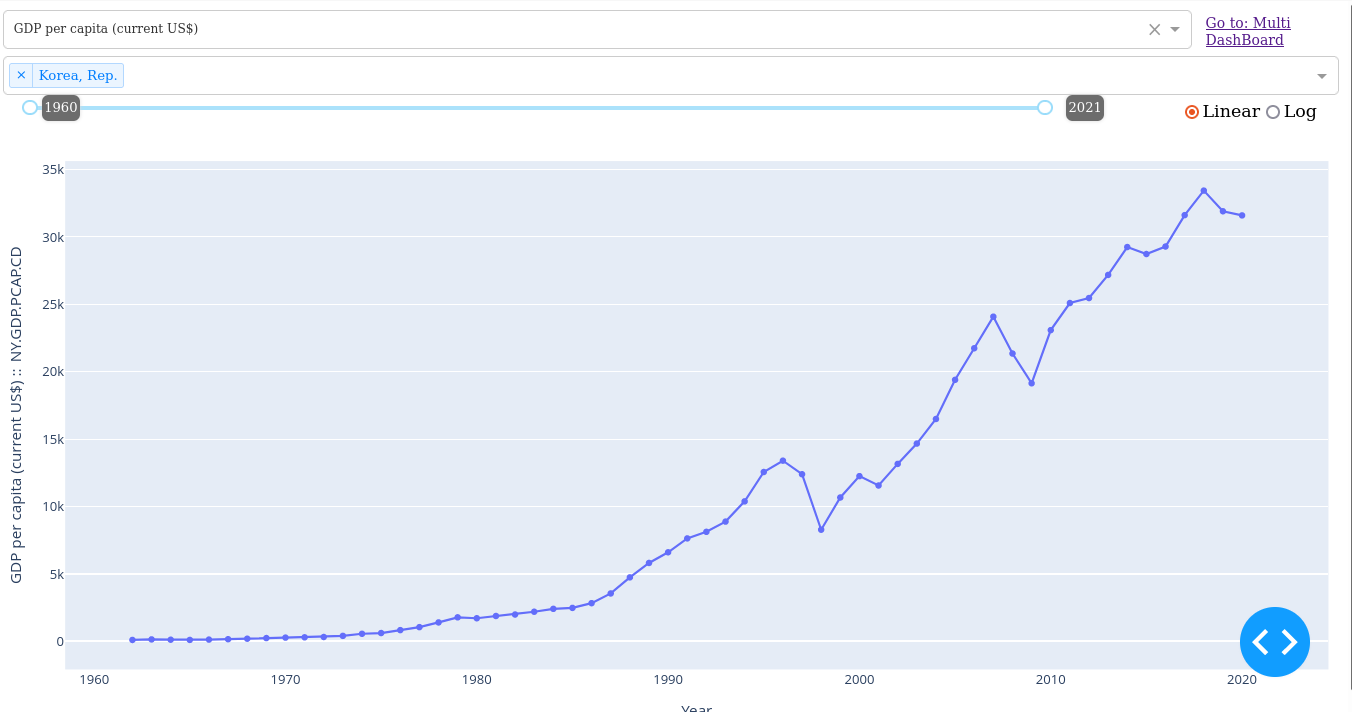
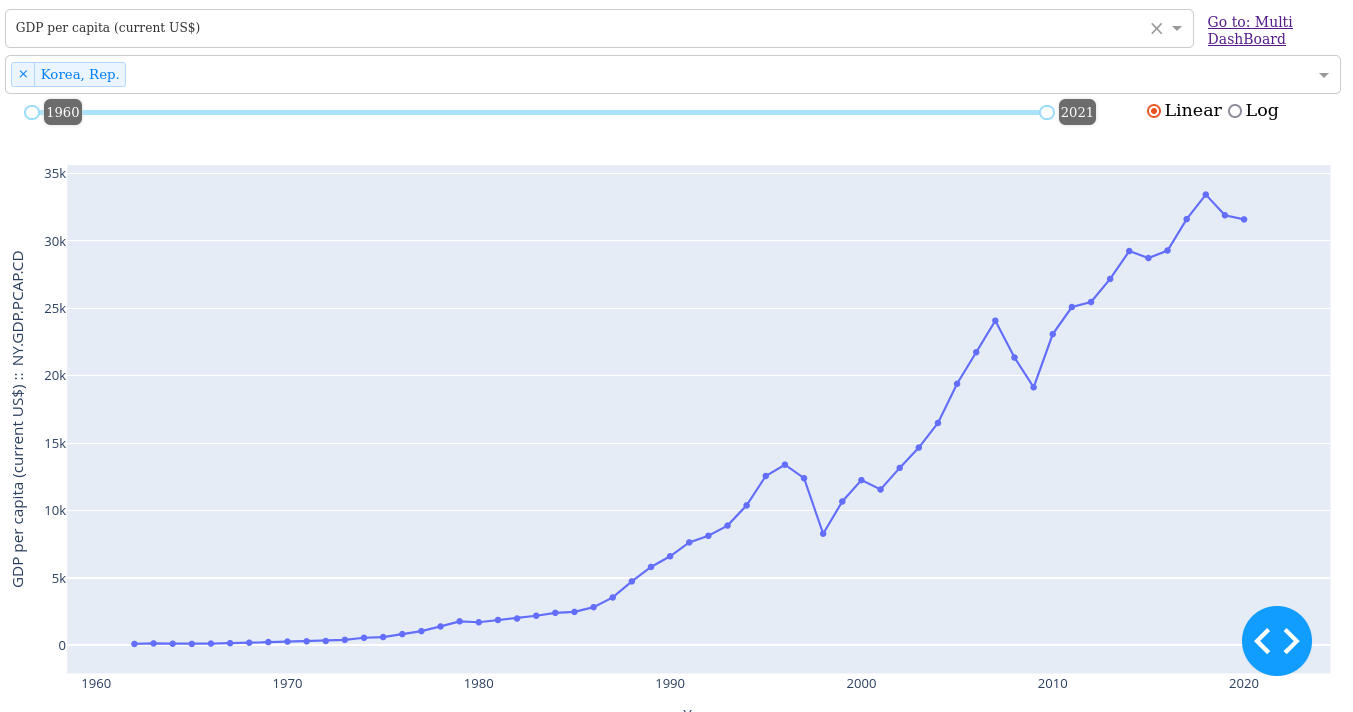
update Apps Version 2 + screenshots

diff --git a/appPages/multiApp.py b/appPages/multiApp.py
@@ -41,47 +41,66 @@ def extract_data(year, d_economies, d_indicator):
 
 layout = html.Div([
     html.Div([
-        dcc.Link('Go to: Simple DashBoard',
-                 href='/simpleApp'),
-    ],            style={
-        'width': '12%',
-        'float': 'right',
-        'padding': '0px 0px 0px 0px',
-        # "display": "inline-block",
-        "font-size": "80%"
-    }
-    ),
-    html.Div([
         dcc.Dropdown(
-            id="x-axis-indicator-7",
-            options=[
-                {"label": key,
-                 "value": value} for key, value in ind_dic.items()
-            ],
-            # value="AG.LND.AGRI.ZS",
-            multi=False)
-    ],
-        style={
-        'width': '87%',
-        'float': 'left',
-        "display": "inline-block",
-        "font-size": "70%"}
-    ),
-    html.Div([
-        dcc.Dropdown(
-            id="d-indicators-7",
+            id="y-indicator-7",
             options=[
                 {"label": key,
                  "value": value} for key, value in ind_dic.items()],
             value="NY.GDP.PCAP.CD",
-            multi=False)
-    ],
-        style={
-        "width": "100%",
-        "display": "inline-block",
-        "padding": "2px 0px 0px 0px",
-        "font-size": "70%"}
-    ),
+            multi=False),
+        # ],
+        #     style={
+        #     "width": "85%",
+        #     "display": "inline-block",
+        #     "padding": "2px 0px 0px 0px",
+        #     "font-size": "70%"}
+        # ),
+        dcc.RadioItems(
+            id="y-axis-type-7",
+            options=["Linear", "Log"],
+            value="Linear",
+            # labelStyle={
+               # "display": "inline-block",
+               # "marginTop": "0px",
+            # },
+        ),
+    ], style={'width': '50%',
+              # "padding": "0px 0px 0px 0px",
+              'float': 'right',
+              'display': 'inline-block',
+              'font-size': "70%"
+              }),
+    html.Div([
+        dcc.Dropdown(
+            id="x-indicator-7",
+            options=[
+                {"label": key,
+                 "value": value} for key, value in ind_dic.items()
+            ],
+            value="AG.LND.AGRI.ZS",
+            multi=False),
+        # ],
+        # style={
+        # 'width': '75%',
+        # 'float': 'left',
+        # "display": "inline-block",
+        # "font-size": "70%"}
+        # ),
+        dcc.RadioItems(
+            id="x-axis-type-7",
+            options=["Linear", "Log"],
+            value="Linear",
+            labelStyle={
+                "display": "inline-block",
+                "marginTop": "0px",
+            },
+        ),
+    ], style={'width': '49%',
+              # 'padding': '0px 0px 0px 0px',
+              'float': 'left',
+              'display': 'inline-block',
+              'font-size': "70%"
+              }),
     html.Div([
         dcc.Dropdown(
             id="d-economies-7",
@@ -93,17 +112,28 @@ layout = html.Div([
             multi=True)
     ],
         style={
-        "width": "100%",
+        "width": "90%",
         "display": "inline-block",
-        # "padding": "0px 0px 0px 0px",
+        "padding": "5px 0px 0px 0px",
         "font-size": "85%"}
+    ),
+    html.Div([
+        dcc.Link('Go to: Simple DashBoard',
+                 href='/simpleApp'),
+    ],            style={
+        'width': '8%',
+        'float': 'right',
+        "padding": "5px 0px 0px 0px",
+        "display": "inline-block",
+        "font-size": "70%"
+    }
     ),
     html.Br(),
     html.Div([
         dcc.RadioItems(
-            value="Line",
+            value="Scatter",
             id="plot-choice-7",
-            options=['Line', 'Scatter'],
+            options=['Scatter', 'Line'],
             labelStyle={
                 "display": "inline-block",
                 "marginTop": "0px",
@@ -150,25 +180,28 @@ layout = html.Div([
     Output("data-graph-7", "figure"),
     Input("year-slider-7", "value"),
     Input("d-economies-7", "value"),
-    Input("d-indicators-7", "value"),
-    Input("x-axis-indicator-7", "value"),
+    Input("y-indicator-7", "value"),
+    Input("x-indicator-7", "value"),
     Input("plot-choice-7", "value"),
+    Input('y-axis-type-7', 'value'),
+    Input('x-axis-type-7', 'value'),
 )
-def update_data(year, d_economies, d_indicator, x_ind, plot_choice):
-    if not x_ind and d_indicator:
+def update_data(year, d_economies, y_ind, x_ind, plot_choice,
+                y_axis_type, x_axis_type):
+    if not x_ind and y_ind:
         x_axis = "Year"
         x_axis_title = "Year"
         y_axis = d_economies
-        y_axis_title = return_key(ind_dic, d_indicator)
-        data = extract_data(year, d_economies, d_indicator)
-    elif d_indicator and x_ind:
+        y_axis_title = return_key(ind_dic, y_ind)
+        data = extract_data(year, d_economies, y_ind)
+    elif y_ind and x_ind:
         x_axis = x_ind
         x_axis_title = return_key(ind_dic, x_ind)
-        y_axis = d_indicator
-        y_axis_title = return_key(ind_dic, d_indicator)
-        indicators = [d_indicator, x_ind]
+        y_axis = y_ind
+        y_axis_title = return_key(ind_dic, y_ind)
+        indicators = [y_ind, x_ind]
         data = extract_data(year, d_economies, indicators)
-    elif x_ind and not d_indicator:
+    elif x_ind and not y_ind:
         x_axis = "Year"
         y_axis = d_economies
         x_axis_title = "Year"
@@ -182,16 +215,15 @@ def update_data(year, d_economies, d_indicator, x_ind, plot_choice):
         # log_y=True,
     )
     fig.update_layout(transition_duration=500)
-    if plot_choice == 'Line':
-        fig.update_traces(mode="lines+markers")
-    else:
-        fig.update_traces(mode="markers")
+    fig.update_traces(mode="markers" if plot_choice ==
+                      "Scatter" else "lines+markers")
     fig.update_xaxes(
         title=("Year" if x_axis == "Year" else f'{x_axis_title} :: {x_ind}'),
         showgrid=False,
-        type="linear"
-    )
-    fig.update_yaxes(title=f"{y_axis_title} :: {d_indicator}", type="linear")
+        type="linear" if x_axis_type == "Linear" else 'log')
+    fig.update_yaxes(
+        title=f"{y_axis_title} :: {y_ind}",
+        type="linear" if y_axis_type == "Linear" else 'log')
     fig.update_layout(height=500, margin={
         "l": 20,
         "r": 10,

diff --git a/appPages/simpleApp.py b/appPages/simpleApp.py
@@ -89,10 +89,10 @@ layout = html.Div([
             value="Linear",
             labelStyle={
                "display": "inline-block",
-               "marginTop": "0px",
+               # "marginTop": "0px",
             },
         ),
-    ], style={'width': '12%', 'float': 'right', 'display': 'inline-block'}),
+    ], style={'width': '15%', 'float': 'right', 'display': 'inline-block'}),
     html.Div([
         dcc.RangeSlider(
             id="year-slider-2",
@@ -108,7 +108,7 @@ layout = html.Div([
     ],  style={
         'width': '80%',
         'display': 'inline-block',
-        # 'padding': '5px 0px 0px 0px',
+        'padding': '5px 0px 0px 0px',
         'font-size': '50%'
     }
     ),
